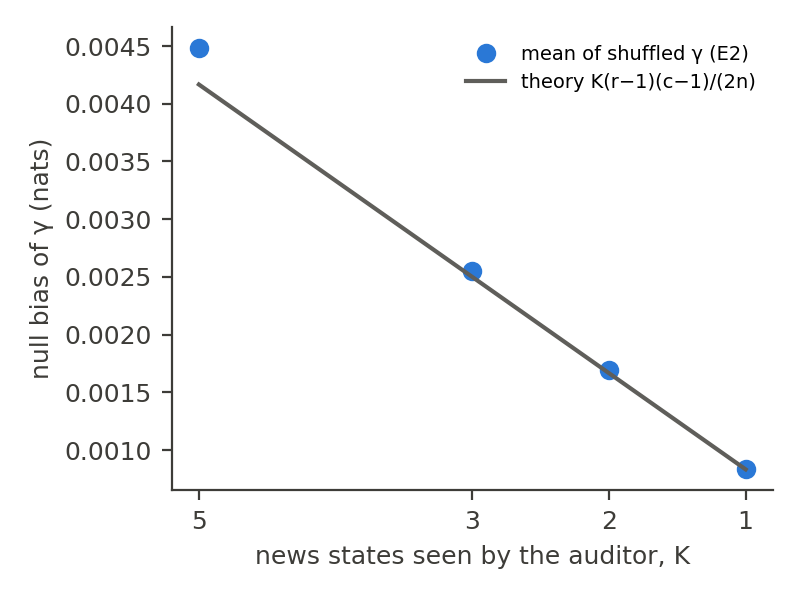
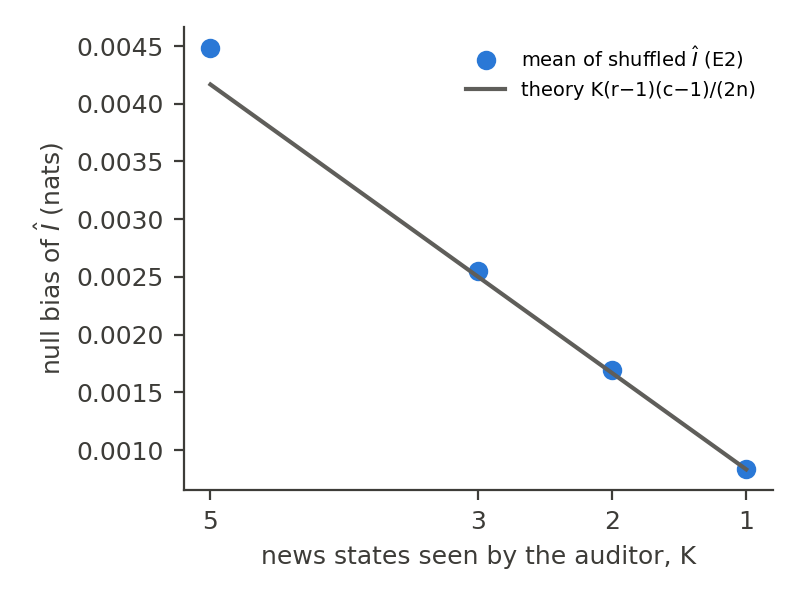
Add method diagram (Figure 1); make figure text legible at print size; use Î in all figures to match the text

diff --git a/figures.py b/figures.py
@@ -73,7 +73,7 @@ def rates(path):
 
 def dots(ax, x, k_test, k_flag, n, dx=0.12, label=True):
     """Test-only rate and flag rate side by side at x, each with its Wilson interval."""
-    for k, col, mk, off, name in [(k_test, TEST, "o", -dx, "test rejects (γ > q95)"), (k_flag, FLAG, "s", dx, "flag (test + Γ rule)")]:
+    for k, col, mk, off, name in [(k_test, TEST, "o", -dx, "standard test ($\\hat{I}$ above its 95% shuffle threshold)"), (k_flag, FLAG, "s", dx, "test + ranking rule (Γ)")]:
         lo, hi = wilson(k, n)
         ax.errorbar(x + off, k / n, yerr=[[k / n - lo], [hi - k / n]], fmt=mk, color=col, ms=5, lw=1.2, capsize=0,
                     label=name if label else None)
@@ -115,12 +115,13 @@ def fig3(path="results/dial.csv"):
         if r["condition"] == "E2": m[r["C"]].append(float(r["null_mean"]))
     Ks = [5, 3, 2, 1]
     fig, ax = plt.subplots(figsize=(4, 3))
-    ax.plot(Ks, [np.mean(m[f"K{k}"]) for k in Ks], "o", color=TEST, ms=6, label="mean of shuffled γ (E2)")
+    ax.plot(Ks, [np.mean(m[f"K{k}"]) for k in Ks], "o", color=TEST, ms=6, label="mean of shuffled $\\hat{I}$ (E2)")
     ax.plot(Ks, [theory.null_bias(k) for k in Ks], color=THEORY, lw=1.5, label="theory K(r−1)(c−1)/(2n)")
-    ax.set_xticks(Ks); ax.invert_xaxis(); ax.set_xlabel("news states seen by the auditor, K"); ax.set_ylabel("null bias of γ (nats)")
+    ax.set_xticks(Ks); ax.invert_xaxis(); ax.set_xlabel("news states seen by the auditor, K"); ax.set_ylabel("null bias of $\\hat{I}$ (nats)")
     ax.legend(frameon=False, fontsize=7); fig.tight_layout(); fig.savefig("figures/fig3_null_bias.png", dpi=200)
 
 
+I_HAT = r"$\hat{I}$"
 BIC = "#1baf7a"  # dataviz palette slot 3; contrast WARN, so it always has its own marker (triangle) and legend label
 
 
@@ -145,7 +146,7 @@ def fig_dial(R, R6000=None):
             kb, nb = bic_count(path, c, f"K{k}", p, k, n)
             lo, hi = wilson(kb, nb)
             ax.errorbar(i, kb / nb, yerr=[[kb / nb - lo], [hi - kb / nb]], fmt="^", color=BIC, ms=5, lw=1.2, capsize=0,
-                        label="Bayes rule (2nγ > K log n)" if ax is axs[0] and i == 0 else None)
+                        label="Bayes-factor rule (2n$\\hat{I}$ > K log n)" if ax is axs[0] and i == 0 else None)
         if c == "E2":
             I = [theory.true_cmi(sim.BETA, 0.0, sim.DIAL[f"K{k}"]) for k in Ks]
             ax.plot(range(4), [theory.flag_rate(x, k, n) for x, k in zip(I, Ks)], color=THEORY, lw=1.5, label="theory, test only" if ax is axs[0] else None)
@@ -162,9 +163,9 @@ def fig_hero(path="results/pooled.csv"):
     P = {(r["source"], r["C"], r["rate"]): r for r in csv.DictReader(open(path)) if r["condition"] == "E2"}
     Ks = [5, 3, 2, 1]
     I = [theory.true_cmi(sim.BETA, 0.0, sim.DIAL[f"K{k}"]) for k in Ks]
-    fig, axs = plt.subplots(1, 2, figsize=(8, 3.2), sharey=True)
-    for ax, (rate, pred, title) in zip(axs, [("test", theory.flag_rate, "(a) permutation test, 5% level"),
-                                             ("bayes", theory.bic_flag_rate, "(b) Bayes rule: 2nγ > K log n")]):
+    fig, axs = plt.subplots(1, 2, figsize=(6.6, 3.0), sharey=True)
+    for ax, (rate, pred, title) in zip(axs, [("test", theory.flag_rate, "(a) standard test, 5% level"),
+                                             ("bayes", theory.bic_flag_rate, "(b) Bayes-factor rule: reject if 2n$\\hat{I}$ > K log n")]):
         for src, n, col, mk in [("dial.csv", 600, TEST, "o"), ("dial_T6000.csv", 6000, FLAG, "s")]:
             ax.plot(range(4), [pred(x, k, n) for x, k in zip(I, Ks)], color=col, lw=1.3, alpha=0.7)
             for i, k in enumerate(Ks):
@@ -173,11 +174,34 @@ def fig_hero(path="results/pooled.csv"):
                 e, lo, hi = float(r["estimate"]), float(r["lo"]), float(r["hi"])
                 ax.errorbar(i + (0.06 if n == 6000 else -0.06), e, yerr=[[e - lo], [hi - e]], fmt=mk, color=col, ms=5, lw=1.2,
                             capsize=0, label=f"{n:,} rounds: data (line = prediction)" if i == 0 else None)
-        ax.axhline(0.05, color=THEORY, ls=":", lw=1)
+        ax.axhline(0.05, color=THEORY, ls=":", lw=1, label="5% target" if ax is axs[0] else None)
         ax.set_xticks(range(4), ["5\n(complete)", "3", "2", "none"]); ax.set_xlabel("news levels the auditor records")
         ax.set_title(title, color=INK, fontsize=9)
-    axs[0].set_ylabel("innocent pairs rejected"); axs[0].set_ylim(-0.02, 1.02); axs[0].legend(frameon=False, fontsize=7, loc="upper left")
+    axs[0].set_ylabel("innocent pairs rejected"); axs[0].set_ylim(-0.02, 1.02); axs[0].legend(frameon=False, fontsize=7.5, loc="upper left")
     fig.tight_layout(); fig.savefig("figures/fig_hero.png", dpi=200)
+
+
+def fig_method(out="figures/fig1_method.png"):
+    """Figure 1: the two tests as flat box-and-arrow rows, drawn at page width so its text prints at about 8 pt."""
+    from matplotlib.patches import FancyBboxPatch
+    rows = [("STANDARD TEST", TEST, ["Log:\nnews and every\nseller's price", "Auditor's record:\nthe news levels\nit keeps",
+                                      "Shuffle B's prices\nwithin each\nrecorded level", f"Reject the pair\nif {I_HAT} beats\n95% of shuffles"]),
+            ("RE-ASKING", FLAG, ["Logged prompt\nof each seller,\neach round", "Same model\nre-asked 4 times\non that prompt",
+                                 "Rank of the\nreal ask among\nthe re-asks", "Do two sellers'\nranks move\ntogether?",
+                                 "Reject the pair\nif above 95%\nof random swaps"])]
+    fig, ax = plt.subplots(figsize=(6.6, 3.0)); ax.set_xlim(0, 6.6); ax.set_ylim(0, 3.0); ax.axis("off")
+    w, gap = 1.08, 0.23
+    for r, (label, col, boxes) in enumerate(rows):
+        y = 2.05 - 1.45 * r
+        ax.text(0.02, y + 0.55, label, fontsize=8, family="monospace", color=col, weight="bold")
+        for i, t in enumerate(boxes):
+            x = 0.02 + i * (w + gap)
+            ax.add_patch(FancyBboxPatch((x, y - 0.42), w, 0.84, boxstyle="round,pad=0.01,rounding_size=0.06",
+                                        fc="#fcfcfb", ec=col, lw=1.2))
+            ax.text(x + w / 2, y, t, ha="center", va="center", fontsize=7.6, color=INK, linespacing=1.25)
+            if i < len(boxes) - 1:
+                ax.annotate("", xy=(x + w + gap - 0.02, y), xytext=(x + w + 0.02, y), arrowprops=dict(arrowstyle="->", color=INK, lw=1))
+    fig.tight_layout(pad=0.2); fig.savefig(out, dpi=250)
 
 
 if __name__ == "__main__":
@@ -188,5 +212,5 @@ if __name__ == "__main__":
     if os.path.exists("results/lambda.csv"): fig2(rates("results/lambda.csv"))
     if os.path.exists("results/dial.csv"):
         fig3(); fig_dial(rates("results/dial.csv"), rates("results/dial_T6000.csv") if os.path.exists("results/dial_T6000.csv") else None)
-    pooled_table(); fig_hero()
+    pooled_table(); fig_hero(); fig_method()
     print("wrote figures/")

diff --git a/llm/replay.py b/llm/replay.py
@@ -199,7 +199,7 @@ def write_results(conds, done, out=os.path.join(os.path.dirname(ROOT), "results"
 
 
 def figure(path=os.path.join(os.path.dirname(ROOT), "results", "replay.csv"),
-           out=os.path.join(os.path.dirname(ROOT), "figures", "fig5_replay.png"), col="gamma", ylabel="γ (nats)"):
+           out=os.path.join(os.path.dirname(ROOT), "figures", "fig5_replay.png"), col="gamma", ylabel=r"$\hat{I}$ (nats)"):
     """Observed γ vs the 95th percentile of its replay null, one column per pair-run, S then C1. Labelled pilot."""
     import csv
     import matplotlib; matplotlib.use("Agg"); import matplotlib.pyplot as plt
@@ -209,7 +209,7 @@ def figure(path=os.path.join(os.path.dirname(ROOT), "results", "replay.csv"),
     for i, r in enumerate(rows):
         x = i + (i >= 9)  # gap between S and C1
         ax.plot([x, x], [float(r["null_mean"]), float(r["q95"])], color=F.TEST, lw=2, label="replay null: mean to 95th pct." if i == 0 else None)
-        ax.plot(x, float(r[col]), "s", color=F.FLAG, ms=5, label=f"observed {ylabel.split()[0]}" if i == 0 else None)
+        ax.plot(x, float(r[col]), "s", color=F.FLAG, ms=5, label="observed " + ylabel.split(" (")[0] if i == 0 else None)
     ax.set_xticks([i + (i >= 9) for i in range(len(rows))], [f"{r['condition']} s{r['seed']}\n({r['A']},{r['B']})" for r in rows], fontsize=6)
     ax.set_ylabel(ylabel); ax.set_title("Pilot, replay test (3 runs each): S left, C1 right; coupled pair in C1 = (1,2)", color=F.INK, fontsize=8)
     ax.legend(frameon=False, fontsize=7); fig.tight_layout(); fig.savefig(out, dpi=200)
